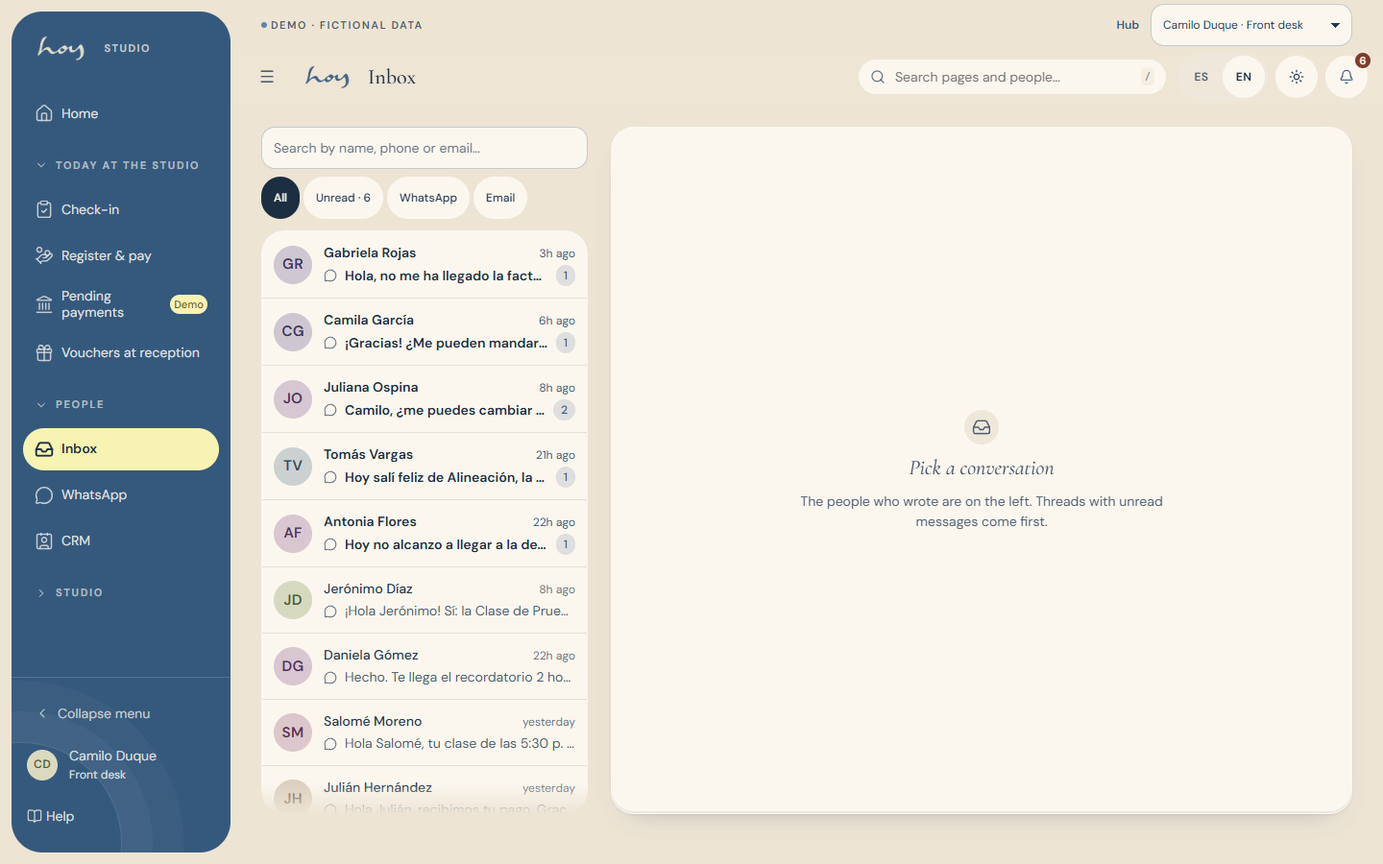
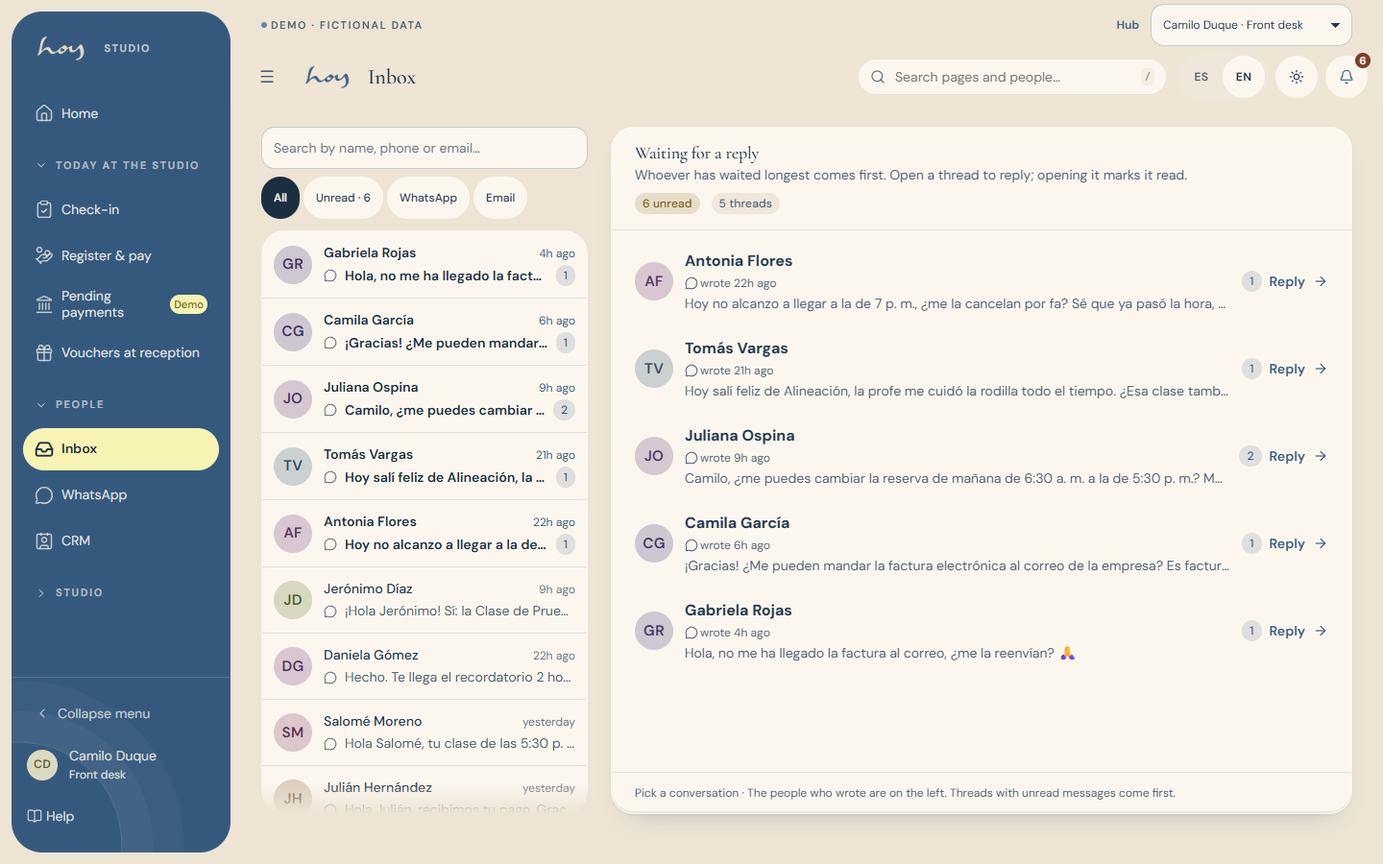
feat(ui): honest balance across seat pages and every role home
S-01, S-02, S-03, S-06, M-01, M-10, C-01, marketing: no stretched empty cards;
quiet info notices; inbox triage pane; masonry check-in roster; compact email
notes and one filter row; role homes rebuilt around real content; body-face
timestamps. Screenshots of all role homes. Changelog 0168.

diff --git a/src/modules/staff/HomePage.tsx b/src/modules/staff/HomePage.tsx
@@ -5,14 +5,13 @@ import { useSession } from '../../auth/SessionProvider';
 import { ROLE_LABEL } from '../../auth/roles';
 import { useTable } from '../../data/DataContext';
 import type { BaseRow, BookingRow, PaymentRow } from '../../data/schema';
-import { isSameDay, formatCOP } from '../../i18n/format';
+import { isSameDay, formatCOP, formatTime } from '../../i18n/format';
 import { StatTile } from '../../components/molecule/StatTile/StatTile';
 import { Card } from '../../components/molecule/Card/Card';
 import { Icon } from '../../components/atom/Icon/Icon';
 import { ClassRow } from '../../components/molecule/ClassRow/ClassRow';
 import { ClassCard } from '../../components/organism/ClassCard/ClassCard';
 import { Timeline, type TimelineItem } from '../../components/organism/Timeline/Timeline';
-import { EmptyState } from '../../components/molecule/EmptyState/EmptyState';
 import { ConversationList } from '../../components/organism/ConversationList/ConversationList';
 import { toSummary, useConversations } from '../../data/comms';
 import { useTodaySessions } from '../website/hooks';
@@ -45,6 +44,14 @@ export function StaffHomePage() {
   const openShifts = today.filter((x) => new Date(x.session.starts_at).getTime() > now).length;
   const paidToday = payments.filter((p) => p.status === 'approved' && p.paid_at && isSameDay(p.paid_at, new Date())).reduce((a, p) => a + p.amount, 0);
   const pending = payments.filter((p) => p.status === 'pending').length;
+  const quick = ([
+    ['checkin.write', '/staff/checkin', 'checkin', 'staff.home.openCheckin'],
+    ['payments.write', '/staff/register', 'register', 'staff.home.openRegister'],
+    ['bookings.write_any', '/staff/rooms', 'rooms', 'staff.home.openRooms'],
+    ['members.read', '/staff/inbox', 'inbox', 'staff.home.openInbox'],
+    ['members.read', '/admin/crm', 'crm', 'staff.home.openCrm'],
+    ['tables.read', '/admin/tables', 'table', 'staff.home.openTables'],
+  ] as const).filter(([perm]) => can(perm));
   const activity: TimelineItem[] = audit.map((a) => ({ id: a.id, at: a.created_at, kind: a.action.startsWith('payment') ? 'payment' : a.action.startsWith('booking') ? 'booking' : a.action.includes('note') ? 'note' : 'system', title: auditTitle(a.action, t, dict), meta: `${byId.get(a.actor_id ?? '')?.name ?? t('staff.home.system')} · ${a.entity}${a.entity_id ? ` · ${a.entity_id}` : ''}` }));
 
   return (
@@ -54,45 +61,45 @@ export function StaffHomePage() {
         <StatTile label={t('staff.home.arrivals')} value={arrivals} hint={t('staff.home.arrivals.hint', { n: expected })} trend={arrivals > 0 ? 'up' : 'flat'} />
         <StatTile label={t('staff.home.openShifts')} value={openShifts} hint={t('staff.home.openShifts.hint', { n: today.length })} />
         <StatTile label={can('payments.read') ? t('staff.home.payments') : t('staff.home.waitlist')} value={can('payments.read') ? formatCOP(paidToday, lang) : waitlist.length} hint={can('payments.read') && pending ? t('staff.home.pending', { n: pending }) : undefined} />
+        {/* 0168 · a role without payments and members saw "On waitlist" twice; the fourth tile is then the next class */}
         {can('members.read')
           ? <StatTile label={t('staff.home.unread')} value={unreadMsgs} hint={unreadThreads ? t('staff.home.unread.hint', { n: unreadThreads }) : undefined} trend={unreadMsgs > 0 ? 'down' : 'flat'} />
-          : <StatTile label={t('staff.home.waitlist')} value={waitlist.length} />}
+          : can('payments.read')
+            ? <StatTile label={t('staff.home.waitlist')} value={waitlist.length} />
+            : <StatTile label={t('staff.home.next')} value={next ? formatTime(next.session.starts_at, lang) : '—'} hint={next ? next.session.title : t('staff.home.next.empty')} />}
       </div>
       {/* 0165 · paired rows, each pair the same height: next class beside the quick actions, today's classes beside the
           messages (or the activity when the role cannot read members); the activity runs full width under them. */}
       <div className="home-rows">
+        {/* 0168 · the day in one cell: the next class (when there is one) above today's list — no empty hero card
+            saying "no classes left" */}
         <section className="home-cell stack-sm">
-          <div className="eyebrow">{t('staff.home.next')}</div>
-          {next
-            ? <ClassCard variant="next" title={next.session.title} teacher={next.teacher?.display_name ?? ''} startsAt={next.session.starts_at} endsAt={next.session.ends_at} tone={next.modality?.tone ?? 'river'} booked={next.session.booked_count} capacity={next.session.capacity} cta={can('checkin.write') ? { label: t('staff.home.openCheckin'), onClick: () => nav(`/staff/checkin?session=${next.session.id}`) } : undefined} />
-            : <Card className="home-fill" padding="md"><EmptyState compact title={t('staff.home.next.empty')} /></Card>}
+          <div className="eyebrow">{next ? t('staff.home.next') : t('staff.home.todayClasses')}</div>
+          {next && <ClassCard variant="next" title={next.session.title} teacher={next.teacher?.display_name ?? ''} startsAt={next.session.starts_at} endsAt={next.session.ends_at} tone={next.modality?.tone ?? 'river'} booked={next.session.booked_count} capacity={next.session.capacity} cta={can('checkin.write') ? { label: t('staff.home.openCheckin'), onClick: () => nav(`/staff/checkin?session=${next.session.id}`) } : undefined} />}
+          <Card padding="sm" className="home-today">
+            {!next && <p className="xs muted home-today-note">{t('staff.home.next.empty')}</p>}
+            {todayAll.length === 0 && <p className="muted small" style={{ padding: 'var(--sp-md)' }}>{t('staff.home.todayClasses.empty')}</p>}
+            {todayAll.map(({ session: s, modality: m, teacher: te }) => <ClassRow key={s.id} title={s.title} teacher={te?.display_name ?? ''} startsAt={s.starts_at} durationMin={m?.duration_min ?? 60} tone={m?.tone ?? 'river'} booked={s.booked_count} capacity={s.capacity} onClick={can('checkin.write') ? () => nav(`/staff/checkin?session=${s.id}`) : undefined} />)}
+          </Card>
         </section>
-        <section className="home-cell stack-sm" aria-labelledby="home-quick">
-          <div className="eyebrow" id="home-quick">{t('staff.home.quick')}</div>
-          <nav className="home-quick" aria-labelledby="home-quick">
-            {([
-              ['checkin.write', '/staff/checkin', 'checkin', 'staff.home.openCheckin'],
-              ['payments.write', '/staff/register', 'register', 'staff.home.openRegister'],
-              ['bookings.write_any', '/staff/rooms', 'rooms', 'staff.home.openRooms'],
-              ['members.read', '/staff/inbox', 'inbox', 'staff.home.openInbox'],
-              ['members.read', '/admin/crm', 'crm', 'staff.home.openCrm'],
-              ['tables.read', '/admin/tables', 'table', 'staff.home.openTables'],
-            ] as const).filter(([perm]) => can(perm)).map(([, to, icon, key]) => (
-              <Link key={to} to={to} className="home-quick-tile" data-depth><span className="home-quick-icon" aria-hidden><Icon name={icon} size="md" /></span><span>{t(key)}</span></Link>
-            ))}
-          </nav>
-        </section>
-        <Card title={t('staff.home.todayClasses')} padding="sm" className="home-cell">
-          {todayAll.length === 0 && <p className="muted small" style={{ padding: 'var(--sp-md)' }}>{t('staff.home.todayClasses.empty')}</p>}
-          {todayAll.map(({ session: s, modality: m, teacher: te }) => <ClassRow key={s.id} title={s.title} teacher={te?.display_name ?? ''} startsAt={s.starts_at} durationMin={m?.duration_min ?? 60} tone={m?.tone ?? 'river'} booked={s.booked_count} capacity={s.capacity} onClick={can('checkin.write') ? () => nav(`/staff/checkin?session=${s.id}`) : undefined} />)}
-        </Card>
+        {/* 0168 · a role with no quick actions gets no empty "Quick actions" column */}
+        {quick.length > 0 && (
+          <section className="home-cell stack-sm" aria-labelledby="home-quick">
+            <div className="eyebrow" id="home-quick">{t('staff.home.quick')}</div>
+            <nav className="home-quick" aria-labelledby="home-quick">
+              {quick.map(([, to, icon, key]) => (
+                <Link key={to} to={to} className="home-quick-tile" data-depth><span className="home-quick-icon" aria-hidden><Icon name={icon} size="md" /></span><span>{t(key)}</span></Link>
+              ))}
+            </nav>
+          </section>
+        )}
         {can('members.read') && (
           <Card title={t('staff.home.messages')} padding="sm" className="home-cell home-msgs" actions={<Link to="/staff/inbox" className="small">{t('core.common.viewAll')}</Link>}>
             {recent.length === 0 ? <p className="muted small" style={{ padding: 'var(--sp-md)' }}>{t('staff.home.messages.empty')}</p> : <ConversationList compact limit={5} conversations={recent} linkTo={(k) => `/staff/inbox/${k}`} />}
           </Card>
         )}
-        <Card title={t('staff.home.activity')} padding="sm" className={`home-cell ${can('members.read') ? 'is-wide' : ''}`} actions={can('audit.read') ? <Link to="/admin/activity" className="small">{t('core.common.viewAll')}</Link> : undefined}>
-          <div style={{ padding: '0 var(--sp-sm)' }}><Timeline items={activity} limit={6} /></div>
+        <Card title={t('staff.home.activity')} padding="sm" className={`home-cell ${(quick.length > 0 ? 1 : 0) + (can('members.read') ? 1 : 0) === 1 ? 'is-wide' : ''}`} actions={can('audit.read') ? <Link to="/admin/activity" className="small">{t('core.common.viewAll')}</Link> : undefined}>
+          <div style={{ padding: '0 var(--sp-sm)' }}><Timeline items={activity} limit={5} /></div>
           <p className="xs muted" style={{ padding: 'var(--sp-sm)' }}>{t('staff.home.activity.note')}</p>
         </Card>
       </div>

diff --git a/src/modules/staff/staff.css b/src/modules/staff/staff.css
@@ -3,10 +3,19 @@
 /* 0167 · top band: both columns end on the same line (the last card in each grows), then the roster groups sit side
    by side across the full width, each group card as tall as its neighbour */
 .checkin-main > :last-child, .checkin-side > :last-child { flex: 1 1 auto; }
-.checkin-groups { display: grid; grid-template-columns: repeat(auto-fit, minmax(min(100%, 26rem), 1fr)); gap: var(--block); align-items: stretch; }
-.checkin-groups > :not(.checkin-group) { grid-column: 1 / -1; }
+/* 0168 · the groups flow as a two-column masonry (CSS columns balance the heights); a short group keeps its natural
+   height instead of a stretched card full of nothing */
+.checkin-groups { column-count: 2; column-gap: var(--block); }
+.checkin-groups > * { break-inside: avoid; margin-bottom: var(--block); }
+.checkin-groups > :not(.checkin-group) { column-span: all; }
 .checkin-group { display: flex; flex-direction: column; min-width: 0; }
-.checkin-group > .card { flex: 1 1 auto; }
+@media (max-width: 1000px) { .checkin-groups { column-count: 1; } }
+/* times read in the body face with even digits, not the code mono */
+.checkin :is(.mono, .checkin-strip-item strong), .checkin-groups .mono { font-family: var(--font-body); font-variant-numeric: tabular-nums; letter-spacing: 0; }
+/* walk-in: the action anchors to the foot of the card, level with the door search beside it */
+.checkin-side > .card:last-child { display: flex; flex-direction: column; }
+.checkin-side > .card:last-child > :last-child { flex: 1 1 auto; display: flex; flex-direction: column; }
+.checkin-side > .card:last-child a:last-child { margin-top: auto; }
 .checkin-group .checkin-note { margin: 0; padding: var(--sp-md) var(--sp-lg) var(--sp-xs); }
 .checkin-main, .checkin-side { display: flex; flex-direction: column; gap: var(--sp-lg); min-width: 0; }
 .checkin-strip { display: flex; gap: var(--sp-sm); overflow-x: auto; padding: 0 var(--sp-2xl) var(--sp-xs) 0; scroll-snap-type: x proximity; mask-image: linear-gradient(to right, black calc(100% - 32px), transparent); -webkit-mask-image: linear-gradient(to right, black calc(100% - 32px), transparent); }
@@ -24,16 +33,20 @@
 .checkin-teacher:last-child { border-bottom: 0; }
 @media (max-width: 1000px) { .checkin { grid-template-columns: 1fr; } }
 /* 0165 · S-01 home in paired rows: each row's two cells share a height, so no column runs long while the other ends */
-.home-rows { display: grid; grid-template-columns: repeat(2, minmax(0, 1fr)); gap: var(--block); align-items: stretch; }
+/* 0168 · cells keep their natural height (start): a stretched card with two rows in it read as padding, not balance */
+.home-rows { display: grid; grid-template-columns: repeat(2, minmax(0, 1fr)); gap: var(--block); align-items: start; }
 .home-cell { min-width: 0; }
 section.home-cell { display: flex; flex-direction: column; }
 section.home-cell > :last-child { flex: 1 1 auto; }
 .home-cell.is-wide { grid-column: 1 / -1; }
 .home-fill { display: grid; place-items: center; }
+.home-today-note { margin: 0; padding: var(--sp-sm) var(--sp-md) 0; }
+/* 0168 · the quick actions keep their natural tile height; the row is as tall as the day cell beside it */
+section.home-cell > .home-quick { flex: 0 0 auto; }
 .home-fill .emptystate { background: none; box-shadow: none; border: 0; }
 .home-quick { display: grid; grid-template-columns: repeat(2, minmax(0, 1fr)); grid-auto-rows: 1fr; gap: var(--sp-md); }
 .home-quick-tile:last-child:nth-child(odd) { grid-column: 1 / -1; }
-.home-quick-tile { display: flex; align-items: center; gap: var(--sp-md); min-height: 4.5rem; padding: var(--card-pad); border-radius: var(--r-lg); background: var(--color-surface); color: var(--color-text); font-size: var(--fs-sm); font-weight: var(--fw-semibold); line-height: 1.3; text-decoration: none; }
+.home-quick-tile { display: flex; align-items: center; gap: var(--sp-md); min-height: var(--sp-4xl); padding: var(--card-pad); border-radius: var(--r-lg); background: var(--color-surface); color: var(--color-text); font-size: var(--fs-sm); font-weight: var(--fw-semibold); line-height: 1.3; text-decoration: none; }
 .home-quick-tile:hover { text-decoration: none; color: var(--color-text); }
 .home-quick-icon { flex: 0 0 auto; display: inline-grid; place-items: center; inline-size: var(--icon-tile); block-size: var(--icon-tile); border-radius: var(--r-md); background: var(--tone-river-bg); color: var(--tone-river-fg); }
 .home-quick-tile:first-child { --q-ink: color-mix(in srgb, var(--brand-ink) 50%, #000); background: var(--tone-river-dot); color: var(--q-ink); }
@@ -147,6 +160,21 @@ section.home-cell > :last-child { flex: 1 1 auto; }
 .inbox-who { gap: var(--sp-2xs); }
 .inbox-name { font-family: var(--font-heading); font-size: var(--fs-lg); }
 .inbox-compose { padding: var(--sp-md); border-top: 1px solid var(--color-border); }
+/* 0168 · triage pane: who is waiting, the longest wait first, one tap to reply */
+.inbox-triage { display: flex; flex-direction: column; min-height: 0; }
+.inbox-triage-head { display: flex; align-items: flex-start; justify-content: space-between; flex-wrap: wrap; gap: var(--sp-sm) var(--sp-lg); padding: var(--sp-lg) var(--sp-xl); border-bottom: 1px solid var(--color-border); }
+.inbox-triage-title { display: flex; flex-direction: column; gap: var(--sp-2xs); min-width: 0; }
+.inbox-triage-title > * { margin: 0; }
+.inbox-triage-list { list-style: none; margin: 0; padding: var(--sp-sm) var(--sp-md); flex: 1 1 auto; min-height: 0; overflow-y: auto; scrollbar-width: none; }
+.inbox-triage-list::-webkit-scrollbar { display: none; }
+.inbox-triage-row { display: grid; grid-template-columns: auto minmax(0, 1fr) auto; align-items: center; gap: var(--sp-md); padding: var(--sp-md); border-radius: var(--r-md); color: var(--color-text); text-decoration: none; }
+.inbox-triage-row:hover { background: var(--color-surface-2); text-decoration: none; }
+.inbox-triage-row:focus-visible { outline: var(--sp-2xs) solid var(--color-accent); outline-offset: calc(-1 * var(--sp-2xs)); }
+.inbox-triage-who { display: flex; flex-direction: column; gap: var(--sp-2xs); min-width: 0; }
+.inbox-triage-who .xs { display: inline-flex; align-items: center; gap: var(--sp-2xs); }
+.inbox-triage-snippet { overflow: hidden; text-overflow: ellipsis; white-space: nowrap; color: var(--color-text-muted); }
+.inbox-triage-go { display: inline-flex; align-items: center; gap: var(--sp-sm); color: var(--color-primary); font-weight: var(--fw-semibold); }
+.inbox-triage-foot { margin: 0; padding: var(--sp-md) var(--sp-xl); border-top: 1px solid var(--color-border); }
 .inbox-empty { min-height: 20rem; display: flex; align-items: center; justify-content: center; }
 /* 0166 · the reading pane fills the screen beside the list and stays put while the list scrolls, so a short pane
    ("pick a conversation", a short thread) never leaves a blank column under it */

diff --git a/src/modules/staff/InboxPage.tsx b/src/modules/staff/InboxPage.tsx
@@ -12,13 +12,14 @@ import { ConversationList } from '../../components/organism/ConversationList/Con
 import { MessageThread } from '../../components/organism/MessageThread/MessageThread';
 import { MessageComposer } from '../../components/molecule/MessageComposer/MessageComposer';
 import { maskPhone, usePeople } from './people';
+import { formatRelative } from '../../i18n/format';
 import './staff.css';
 import { Icon } from '../../components/atom/Icon/Icon';
 
 /** S-06 front-desk inbox: every customer conversation on the left, the selected thread and the reply box on the right. */
 export function InboxPage() {
   const { id } = useParams();
-  const { t, bi } = useI18n();
+  const { t, bi, lang } = useI18n();
   const { can, user } = useSession();
   const { conversations, loading } = useConversations();
   const { sendComposed, markConversationRead, quietUntil } = useMessaging('front_desk');
@@ -26,6 +27,8 @@ export function InboxPage() {
   const { byId } = usePeople();
   const summaries = useMemo(() => conversations.map(toSummary), [conversations]);
   const unread = conversations.reduce((a, c) => a + c.unread, 0);
+  // Triage: unread threads, the longest wait first.
+  const waiting = useMemo(() => summaries.filter((s) => s.unread > 0).sort((a, b) => a.lastAt.localeCompare(b.lastAt)), [summaries]);
   const selected = id ? conversations.find((c) => c.userId === id) : undefined;
   // A member with no messages yet (opened from M-06) still gets a pane: an empty thread and the composer to start one.
   const person = selected?.person ?? (id ? byId.get(id) : undefined);
@@ -47,7 +50,34 @@ export function InboxPage() {
           {loading && conversations.length === 0 ? <EmptyState compact tone="loading" title={t('core.common.loading')} /> : <ConversationList conversations={summaries} selectedKey={id} linkTo={(k) => `/staff/inbox/${k}`} />}
         </aside>
         <section className="inbox-pane" aria-live="polite">
-          {!id && <Card className="inbox-empty"><EmptyState icon="inbox" title={t('staff.inbox.select')} body={t('staff.inbox.select.body')} /></Card>}
+          {/* 0168 · with no thread open the pane is a triage view (who has waited longest), not an empty void */}
+          {!id && (waiting.length === 0
+            ? <Card className="inbox-empty"><EmptyState icon="inbox" title={t('staff.inbox.triage.done')} body={t('staff.inbox.select.body')} /></Card>
+            : <Card padding="none" className="inbox-triage">
+                <header className="inbox-triage-head">
+                  <div className="inbox-triage-title">
+                    <h2 className="inbox-name">{t('staff.inbox.triage.title')}</h2>
+                    <p className="small muted">{t('staff.inbox.triage.body')}</p>
+                  </div>
+                  <div className="row wrap"><Badge tone="warn">{t('staff.inbox.triage.unread', { n: unread })}</Badge><Badge>{t('staff.inbox.triage.threads', { n: waiting.length })}</Badge></div>
+                </header>
+                <ol className="inbox-triage-list">
+                  {waiting.map((c) => (
+                    <li key={c.key}>
+                      <Link to={`/staff/inbox/${c.key}`} className="inbox-triage-row">
+                        <Avatar name={c.name} initials={c.initials} size={40} />
+                        <span className="inbox-triage-who">
+                          <strong>{c.name}</strong>
+                          <span className="xs muted"><Icon name={c.channel === 'email' ? 'mail' : 'whatsapp'} size="xs" /> {t('staff.inbox.triage.waiting', { when: formatRelative(c.lastAt, lang) })}</span>
+                          <span className="small inbox-triage-snippet">{c.snippet}</span>
+                        </span>
+                        <span className="inbox-triage-go"><Badge tone="primary">{c.unread}</Badge><span className="small">{t('staff.inbox.triage.open')}</span><Icon name="arrow-right" size="sm" /></span>
+                      </Link>
+                    </li>
+                  ))}
+                </ol>
+                <p className="xs muted inbox-triage-foot">{t('staff.inbox.select')} · {t('staff.inbox.select.body')}</p>
+              </Card>)}
           {id && !person && <Card className="inbox-empty"><EmptyState tone={loading ? 'loading' : 'empty'} title={loading ? t('core.common.loading') : t('staff.inbox.notFound')} body={loading ? undefined : t('staff.inbox.notFound.body')} action={<Link to="/staff/inbox"><Button size="sm" variant="secondary">{t('staff.inbox.back')}</Button></Link>} /></Card>}
           {id && person && (
             <Card padding="none" className="inbox-thread">

diff --git a/src/modules/customer/HomePage.tsx b/src/modules/customer/HomePage.tsx
@@ -60,6 +60,7 @@ export function CustomerHomePage() {
     return all.filter((x) => isSameDay(x.session.starts_at, new Date()) && x.session.status === 'scheduled' && new Date(x.session.ends_at).getTime() > now);
   }, [all, now]);
   const membership = memberships[0];
+  const comingUp = useMemo(() => all.filter((x) => x.session.status === 'scheduled' && new Date(x.session.starts_at).getTime() > now && !isSameDay(x.session.starts_at, new Date())).sort((a, b) => a.session.starts_at.localeCompare(b.session.starts_at)).slice(0, 4), [all, now]);
 
   const book = (sessionId: string) => nav(`/app/checkout/${sessionId}`);
 
@@ -95,8 +96,13 @@ export function CustomerHomePage() {
     'TodayList': () => (
       <section className="stack-sm cust-home-block">
         <div className="eyebrow">{t('customer.home.today')}</div>
-        <Card padding="sm" className={`cust-today ${today.length === 0 ? 'is-empty' : ''}`}>
-          {today.length === 0 && <p className="muted small" style={{ padding: 'var(--sp-md)' }}>{t('customer.home.today.empty')}</p>}
+        <Card padding="sm" className="cust-today">
+          {today.length === 0 && <p className="muted small cust-today-empty">{t('customer.home.today.empty')}</p>}
+          {/* 0168 · a rest day shows what is coming up instead of an empty card */}
+          {today.length === 0 && comingUp.length > 0 && <div className="eyebrow cust-today-next">{t('customer.home.comingUp')}</div>}
+          {today.length === 0 && comingUp.map(({ session: s, modality: m, teacher: te }) => (
+            <ClassRow key={s.id} title={s.title} teacher={`${formatDate(s.starts_at, lang, { weekday: 'short', day: 'numeric', month: 'short' })} · ${te?.display_name ?? ''}`} startsAt={s.starts_at} durationMin={m?.duration_min ?? 60} tone={m?.tone ?? 'river'} booked={s.booked_count} capacity={s.capacity} booked_by_me={activeBookingIds.has(s.id)} onClick={() => (activeBookingIds.has(s.id) ? nav(`/app/class/${s.id}`) : s.booked_count >= s.capacity ? nav(`/app/waitlist/${s.id}`) : book(s.id))} />
+          ))}
           {today.map(({ session: s, modality: m, teacher: te }) => (
             <ClassRow key={s.id} title={s.title} teacher={te?.display_name ?? ''} startsAt={s.starts_at} durationMin={m?.duration_min ?? 60} tone={m?.tone ?? 'river'} booked={s.booked_count} capacity={s.capacity} booked_by_me={activeBookingIds.has(s.id)} onClick={() => (activeBookingIds.has(s.id) ? nav(`/app/class/${s.id}`) : s.booked_count >= s.capacity ? nav(`/app/waitlist/${s.id}`) : book(s.id))} />
           ))}

diff --git a/src/modules/admin/admin.css b/src/modules/admin/admin.css
@@ -27,6 +27,12 @@
 /* 0167 · the standing demo notes are quiet paper lines, not two bright banners competing with the editor */
 :root .deskshell-main :is(.emails-notes .notice, .emails-side .notice-info) { padding: var(--sp-sm) var(--sp-md); border: 0; background: var(--color-surface-2); box-shadow: none; font-size: var(--fs-xs); color: var(--color-text); }
 :root .deskshell-main :is(.emails-notes, .emails-side) .notice .notice-title { font-size: var(--fs-sm); }
+/* 0168 · the notes read in two lines (the rest on hover or focus) and both filter rows share one line, so the
+   workspace starts above the fold */
+.emails-notes .notice-text { display: -webkit-box; -webkit-box-orient: vertical; -webkit-line-clamp: 2; overflow: hidden; }
+.emails-notes .notice:is(:hover, :focus-within) .notice-text { -webkit-line-clamp: unset; }
+.emails-filters { flex-direction: row; flex-wrap: wrap; align-items: center; justify-content: space-between; gap: var(--sp-sm) var(--sp-xl); }
+.emails-filters > .row-between { flex: 1 1 28rem; }
 /* 0167 · three columns, one height: the list, the preview and the editor each scroll inside their own column
    (no scrollbars, a fade at the foot), so the workspace is one screen tall and no column ends early */
 @media (min-width: 1200.02px) {
@@ -100,7 +106,10 @@
 /* 0165 · M-01 below the KPI row: two equal-height columns; a wide card or a lone last card spans both */
 .adm-rows { display: grid; grid-template-columns: repeat(2, minmax(0, 1fr)); gap: var(--block); align-items: stretch; }
 .adm-rows > * { min-width: 0; }
-.adm-rows > .is-wide, .adm-rows > :last-child:nth-child(odd) { grid-column: 1 / -1; }
+.adm-rows > .is-wide { grid-column: 1 / -1; }
+/* 0168 · today leads across the full width (the day comes first and its rows are short); the occupancy chart and the
+   last five audit entries pair below at matching heights — no half-empty card */
+.adm-rows > .adm-today-card { order: -1; grid-column: 1 / -1; }
 @media (max-width: 1100px) { .adm-rows { grid-template-columns: minmax(0, 1fr); } }
 .adm-today { display: grid; grid-template-columns: minmax(4.75rem, max-content) minmax(0, 1fr) auto; gap: var(--sp-md); align-items: center; padding: var(--sp-sm) 0; border-bottom: 1px solid var(--color-border); }
 .adm-today:last-child { border-bottom: 0; }

diff --git a/src/components/organism/MarketingDraftBoard/MarketingDraftBoard.css b/src/components/organism/MarketingDraftBoard/MarketingDraftBoard.css
@@ -17,12 +17,17 @@
 .mkt-actions { align-items: center; }
 .mkt-actions > .mkt-empty { margin: 0 0 0 auto; }
 .mkt-side { display: flex; flex-direction: column; gap: var(--block); min-width: 0; }
-.mkt-side > .card { flex: 1 1 0; }
-.mkt-assets .grid-2 { grid-template-columns: repeat(auto-fit, minmax(min(100%, 13rem), 1fr)); }
-.mkt-assets .marketing-brand { height: var(--sp-5xl); width: 100%; }
+/* 0168 · cards keep their natural height (no stretched empty cards); empty lines read as quiet hints */
+.mkt-side .card p:only-of-type { color: var(--color-text-muted); font-size: var(--fs-sm); }
+.mkt-assets .grid-2 { grid-template-columns: repeat(auto-fit, minmax(min(100%, 10rem), 1fr)); gap: var(--sp-md); }
+.mkt-assets .card { padding: var(--sp-md); }
+.mkt-assets .card p { margin: 0; font-size: var(--fs-sm); }
+.mkt-assets .marketing-brand { height: var(--sp-4xl); width: 100%; }
 @media (min-width: 1100px) {
-  .mkt-board { display: grid; grid-template-columns: minmax(0, 1.7fr) minmax(18rem, 1fr); align-items: stretch; }
+  /* 0168 · brand references join the side column under the two draft cards, so the side carries real content beside
+     the calendar instead of two stretched empty cards */
+  .mkt-board { display: grid; grid-template-columns: minmax(0, 1.7fr) minmax(20rem, 1fr); grid-auto-flow: row dense; align-items: start; }
   .mkt-board > * { grid-column: 1 / -1; min-width: 0; }
-  .mkt-board > .mkt-calendar { grid-column: 1; }
-  .mkt-board > .mkt-side { grid-column: 2; }
+  .mkt-board > .mkt-calendar { grid-column: 1; grid-row: span 2; }
+  .mkt-board > .mkt-side, .mkt-board > .mkt-assets { grid-column: 2; }
 }

diff --git a/src/modules/staff/strings.ts b/src/modules/staff/strings.ts
@@ -83,6 +83,13 @@ export const strings: StringTable = {
   'staff.inbox.subtitle': { es: '{n} mensajes esperan respuesta.', en: '{n} messages are waiting for a reply.' },
   'staff.inbox.subtitle.allRead': { es: 'Todo respondido. WhatsApp y email de cada persona, en un solo hilo.', en: 'All answered. Each person’s WhatsApp and email in one thread.' },
   'staff.inbox.select': { es: 'Elige una conversación', en: 'Pick a conversation' },
+  'staff.inbox.triage.title': { es: 'Esperan respuesta', en: 'Waiting for a reply' },
+  'staff.inbox.triage.body': { es: 'Quien lleva más tiempo esperando va primero. Abre un hilo para responder; al abrirlo queda leído.', en: 'Whoever has waited longest comes first. Open a thread to reply; opening it marks it read.' },
+  'staff.inbox.triage.waiting': { es: 'escribió {when}', en: 'wrote {when}' },
+  'staff.inbox.triage.open': { es: 'Responder', en: 'Reply' },
+  'staff.inbox.triage.done': { es: 'Todo al día', en: 'All caught up' },
+  'staff.inbox.triage.unread': { es: '{n} sin leer', en: '{n} unread' },
+  'staff.inbox.triage.threads': { es: '{n} hilos', en: '{n} threads' },
   'staff.inbox.select.body': { es: 'A la izquierda están las personas que han escrito. Los hilos con mensajes sin leer van primero.', en: 'The people who wrote are on the left. Threads with unread messages come first.' },
   'staff.inbox.notFound': { es: 'Conversación no encontrada', en: 'Conversation not found' },
   'staff.inbox.notFound.body': { es: 'El enlace es antiguo o la persona no tiene mensajes.', en: 'The link is old or the person has no messages.' },

diff --git a/src/components/molecule/Notice/Notice.css b/src/components/molecule/Notice/Notice.css
@@ -14,8 +14,10 @@
 .notice-danger .notice-icon { background: var(--color-danger); color: var(--color-text-on-primary); }
 @media (max-width: 480px) { .notice { flex-wrap: wrap; } .notice-action { width: 100%; justify-content: flex-end; } }
 
-/* 0160 · Studio look: an info notice is the sun tile (Pulso's date tile); warning and danger keep their tints. */
+/* 0160 · Studio look; 0168 · an info notice is a quiet paper note with a sun edge and a sun icon (it was a full sun
+   tile, and pages with three of them read as walls of yellow); warning and danger keep their tints. */
 :root[data-look="studio"] .notice { border-color: transparent; }
-:root[data-look="studio"] .notice-info { background: var(--color-highlight); color: var(--color-on-highlight); }
+:root[data-look="studio"] .notice-info { background: var(--color-surface-2); color: var(--color-text); box-shadow: inset 3px 0 0 var(--brand-yellow); padding: var(--sp-sm) var(--sp-md); }
 :root[data-look="studio"] .notice-info :is(.notice-text, .notice-title) { color: inherit; }
-:root[data-look="studio"] .notice-info .notice-icon { background: var(--brand-ink); color: var(--brand-yellow); }
+:root[data-look="studio"] .notice-info .notice-text { color: var(--color-text-muted); }
+:root[data-look="studio"] .notice-info .notice-icon { background: var(--color-highlight); color: var(--color-on-highlight); }

diff --git a/src/modules/admin/DashboardPage.tsx b/src/modules/admin/DashboardPage.tsx
@@ -71,7 +71,7 @@ export function DashboardPage() {
       </Card>
     ),
     'TodayAtAGlance': () => (
-      <Card title={t('admin.dashboard.today')} eyebrow={t('admin.dashboard.today.eyebrow')} actions={can('checkin.write') ? <Link to="/staff/checkin" className="small">{t('core.nav.checkin')}</Link> : undefined}>
+      <Card className="adm-today-card" title={t('admin.dashboard.today')} eyebrow={t('admin.dashboard.today.eyebrow')} actions={can('checkin.write') ? <Link to="/staff/checkin" className="small">{t('core.nav.checkin')}</Link> : undefined}>
         {today.length === 0 ? <EmptyState compact title={t('admin.dashboard.today.empty')} /> : (
           <div>
             {today.map(({ session, modality, teacher }) => {
@@ -95,8 +95,8 @@ export function DashboardPage() {
       </Card>
     ),
     'AuditTrail': () => (
-      <Card className="is-wide" title={t('admin.dashboard.audit')} actions={can('audit.read') ? <Link to="/admin/activity" className="small">{t('core.common.viewAll')}</Link> : undefined}>
-        <Timeline items={trail} limit={8} />
+      <Card title={t('admin.dashboard.audit')} actions={can('audit.read') ? <Link to="/admin/activity" className="small">{t('core.common.viewAll')}</Link> : undefined}>
+        <Timeline items={trail} limit={5} />
       </Card>
     ),
   };

diff --git a/src/modules/teacher/teacher.css b/src/modules/teacher/teacher.css
@@ -23,6 +23,16 @@
 /* 0165 Â· S-03 balance: from 900 px the next class pairs with the three headline numbers (stacked beside it) and today
    pairs with the specials; seven "my numbers" tiles in three columns let the last one span the row instead of a hole. */
 .teach-numbers > :last-child:nth-child(3n + 1) { grid-column: 1 / -1; }
+/* 0168 · from 900 px: seven numbers as 4 + 3 with the last spanning two columns (a full-width tile read as empty);
+   the three headline numbers are compact so the next-class card beside them is not stretched */
+@media (min-width: 900px) {
+  .teach-numbers { grid-template-columns: repeat(4, minmax(0, 1fr)); }
+  .teach-numbers > :last-child:nth-child(3n + 1) { grid-column: auto; }
+  .teach-numbers > :last-child:nth-child(7) { grid-column: span 2; }
+  .teach-pair.is-lead .teach-lead-stats { gap: var(--sp-sm); }
+  .teach-pair.is-lead .teach-lead-stats .stat { padding: var(--sp-sm) var(--sp-lg); min-height: 0; }
+  .teach-pair.is-lead .teach-lead-stats .stat-value { font-size: var(--fs-xl); }
+}
 @media (min-width: 900px) {
   .teach-pair { display: grid; grid-template-columns: repeat(2, minmax(0, 1fr)); gap: var(--block); align-items: stretch; }
   .teach-pair.is-lead { grid-template-columns: minmax(0, 1.5fr) minmax(16rem, 1fr); align-items: stretch; }

diff --git a/src/modules/admin/EmailsPage.tsx b/src/modules/admin/EmailsPage.tsx
@@ -100,7 +100,7 @@ export function EmailsPage() {
       {loading && templates.length === 0 && <EmptyState tone="loading" title={t('core.common.loading')} />}
       {!loading && templates.length === 0 && <EmptyState title={t('admin.emails.empty')} body={t('admin.emails.empty.body')} action={canWrite && <Button size="sm" disabled={!readsReady} onClick={createMissing}>{t('admin.emails.createMissing', { n: missing.length })}</Button>} />}
       {templates.length > 0 && (
-        <div className="stack-sm">
+        <div className="stack-sm emails-filters">
           <div className="row wrap" role="tablist" aria-label={t('admin.emails.f.audience')}>
             {EMAIL_AUDIENCES.map((a) => <Chip key={a} selected={audience === a} onClick={() => { setAudience(a); setSelected(null); }}>{t(`admin.emails.audience.${a}`)} · {templates.filter((x) => audienceOf(x) === a).length}</Chip>)}
           </div>

diff --git a/src/modules/customer/customer.css b/src/modules/customer/customer.css
@@ -11,7 +11,8 @@
 .cust-announce-icon { display: inline-grid; place-items: center; inline-size: var(--sp-xl); block-size: var(--sp-xl); border-radius: 50%; background: var(--tone-sun-dot); color: var(--brand-ink); flex: 0 0 auto; }
 .cust-announce-label { font-weight: var(--fw-semibold); }
 .cust-announce-body { color: var(--color-text-muted); min-width: 0; }
-.cust-today.is-empty { display: grid; place-items: center; }
+.cust-today-empty { margin: 0; padding: var(--sp-sm) var(--sp-md) 0; }
+.cust-today-next { margin: 0; padding: var(--sp-md) var(--sp-md) var(--sp-xs); }
 
 /* shared page scaffolding */
 .cust-page { display: flex; flex-direction: column; gap: var(--sp-lg); padding-top: var(--sp-lg); }
